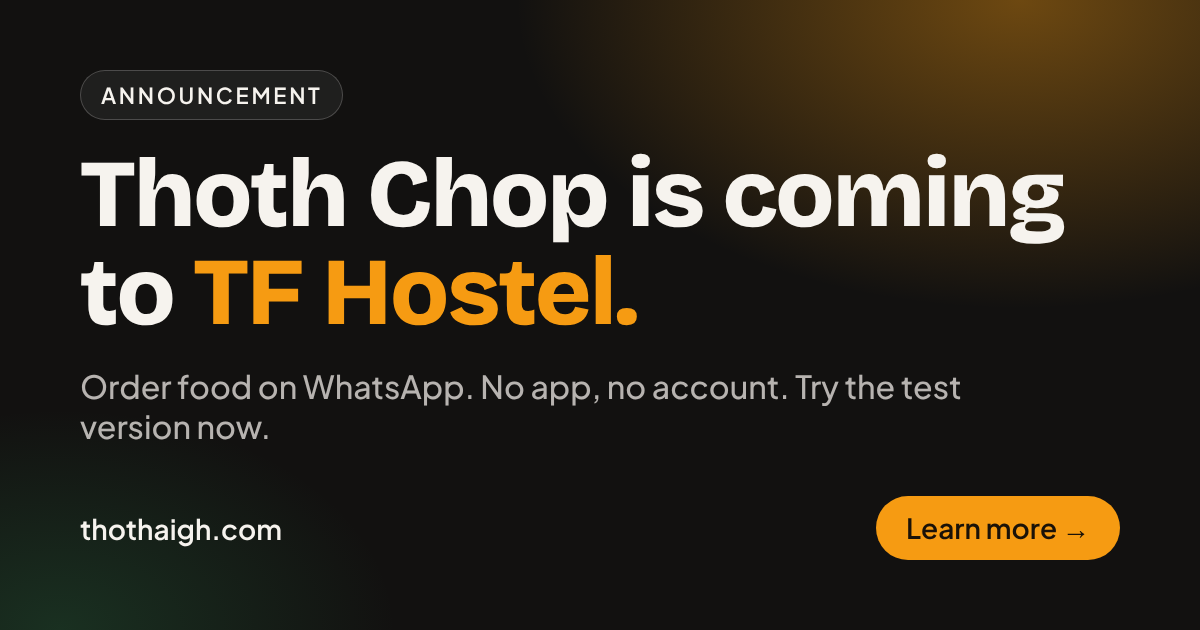
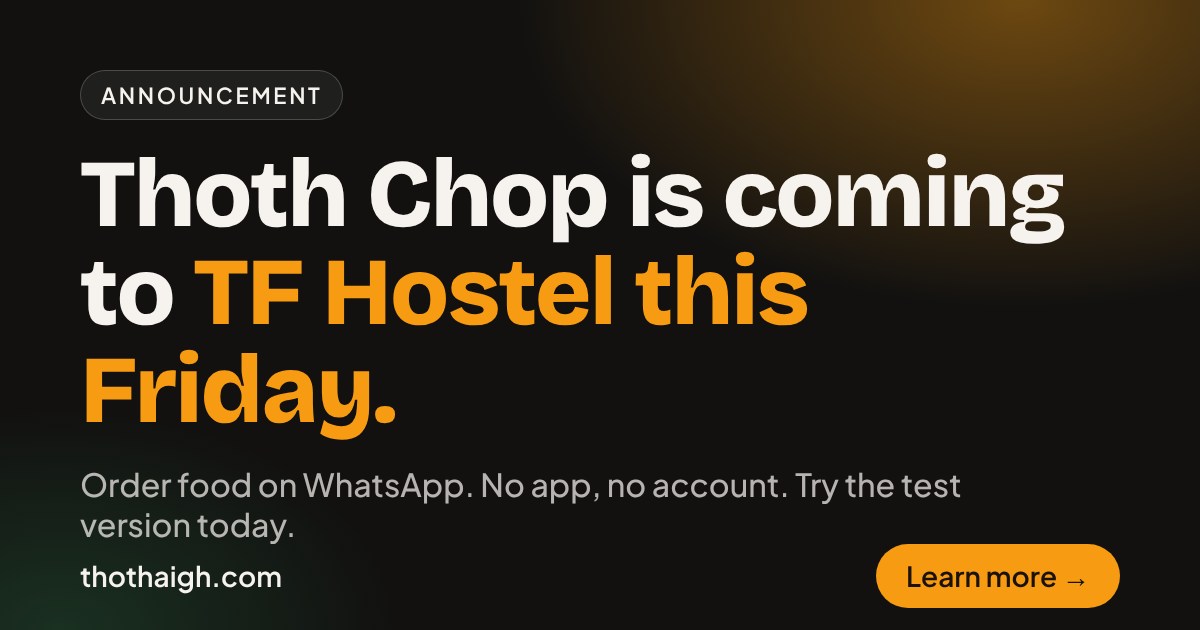
Launch page: opens Friday 20 November, test version open until then
Claude-Session: https://claude.ai/code/session_013KgWTLtaAAkvZdPdeEBZx5

diff --git a/src/routes/thothfood/launch.tsx b/src/routes/thothfood/launch.tsx
@@ -11,7 +11,7 @@ import {
   AccordionTrigger,
 } from "@/components/ui/accordion";
 
-const TITLE = `Thoth Chop is coming to ${LAUNCH.place}`;
+const TITLE = `Thoth Chop is coming to ${LAUNCH.place}${LAUNCH.when ? ` ${LAUNCH.when}` : ""}`;
 const DESCRIPTION = `Order food from ${LAUNCH.place} on WhatsApp: no app, no account. Try the test version now, with no money taken and no food sent.`;
 
 export const Route = createFileRoute("/thothfood/launch")({
@@ -105,7 +105,7 @@ function Launch() {
             {live ? (
               <>Thoth Chop is open at <span className="text-primary">{LAUNCH.place}.</span></>
             ) : (
-              <>Thoth Chop is coming to <span className="text-primary">{LAUNCH.place}.</span></>
+              <>Thoth Chop is coming to <span className="text-primary">{LAUNCH.place}{LAUNCH.when ? ` ${LAUNCH.when}` : ""}.</span></>
             )}
           </motion.h1>
           <motion.p
@@ -145,7 +145,7 @@ function Launch() {
           </motion.div>
           {!live && (
             <p className="mt-4 text-sm text-white/50">
-              Test version: no money taken, no food sent.{LAUNCH.testUntilLabel ? ` Open until ${LAUNCH.testUntilLabel}.` : ""}
+              Test version: no money taken, no food sent.{LAUNCH.testUntilLabel ? ` Open today until ${LAUNCH.testUntilLabel}.` : ""}
             </p>
           )}
         </div>

diff --git a/src/data/launch.ts b/src/data/launch.ts
@@ -12,10 +12,12 @@ export const LAUNCH = {
   phase: "prelaunch" as LaunchPhase,
   announce: true,
   place: "TF Hostel",
+  /** The short way the banner and the hero link say when ("coming to TF Hostel this Friday"). Empty = no date said. */
+  when: "this Friday",
   /** Said where the page says when ordering for real opens, e.g. "Monday 17 November". Keep it vague until the date is certain. */
-  liveLabel: "very soon",
+  liveLabel: "Friday 20 November",
   /** The last day of the test week, when there is one (shown as "Test version open until ..."). Leave empty for none. */
-  testUntilLabel: "",
+  testUntilLabel: "Friday 20 November",
 };
 
 /** The vendors on first, by name as customers see them. Only vendors that have agreed to be named belong here. */

diff --git a/src/components/site/AnnouncementBar.tsx b/src/components/site/AnnouncementBar.tsx
@@ -22,7 +22,7 @@ export function AnnouncementBar() {
     <div className="bg-primary text-primary-foreground">
       <div className="container-page flex items-center justify-center gap-3 py-2 text-center text-sm font-semibold">
         <span>
-          {live ? `🍽 Thoth Chop is now open at ${LAUNCH.place}.` : `🍽 Thoth Chop is coming to ${LAUNCH.place}.`}
+          {live ? `🍽 Thoth Chop is now open at ${LAUNCH.place}.` : `🍽 Thoth Chop is coming to ${LAUNCH.place}${LAUNCH.when ? ` ${LAUNCH.when}` : ""}.`}
         </span>
         <Link to="/thothfood/launch" className="inline-flex items-center gap-1 underline underline-offset-4 hover:opacity-80">
           {live ? "Order now" : "Learn more"} <ArrowRight className="h-3.5 w-3.5" />

diff --git a/src/routes/thothfood/index.tsx b/src/routes/thothfood/index.tsx
@@ -72,7 +72,7 @@ function Home() {
                 to="/thothfood/launch"
                 className="mt-3 flex w-fit items-center gap-2 rounded-full bg-primary/15 px-3 py-1.5 text-xs font-semibold text-primary hover:bg-primary/25"
               >
-                🍽 {LAUNCH.phase === "live" ? `Now open at ${LAUNCH.place}` : `New: Thoth Chop at ${LAUNCH.place}`} · Learn more →
+                🍽 {LAUNCH.phase === "live" ? `Now open at ${LAUNCH.place}` : `New: Thoth Chop at ${LAUNCH.place}${LAUNCH.when ? ` ${LAUNCH.when}` : ""}`} · Learn more →
               </Link>
             )}
             <motion.h1
